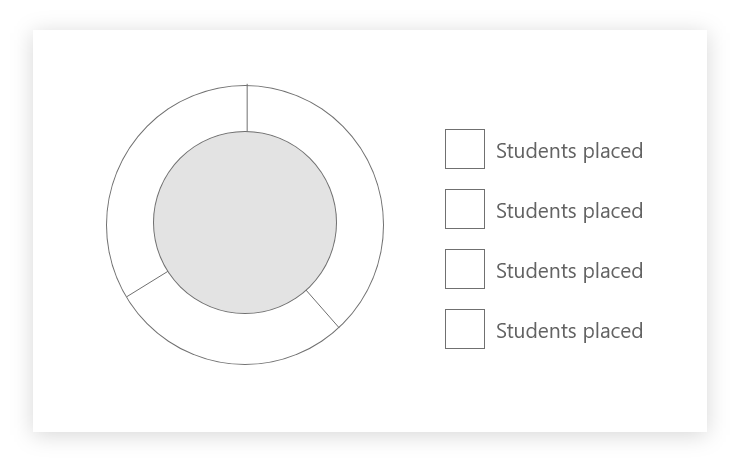
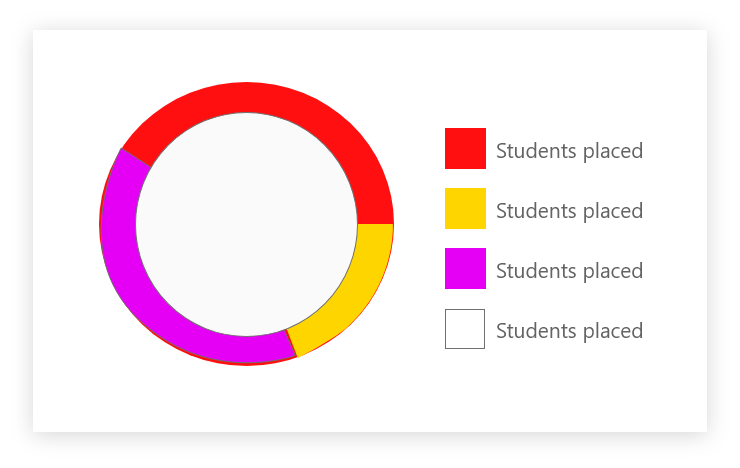
Piechart color added

diff --git a/html/life@akgec/extracurricularsoc/dop.html b/html/life@akgec/extracurricularsoc/dop.html
@@ -135,7 +135,7 @@
     <!-- introduction -->
     <section class="si_sec_pad">
       <div class="text-center mx-auto">
-        <img src="../../../images/life@akgec/extracurricularsoc/dop/doplogo.png" alt="silogo">
+        <img src="../../../images/life@akgec/common/dop.png" alt="logo">
       </div>
       <div class="text-center text-uppercase sec_heading issuance_head mt-4">Department of Photography</div>
       <div class="underline mx-auto"></div>
